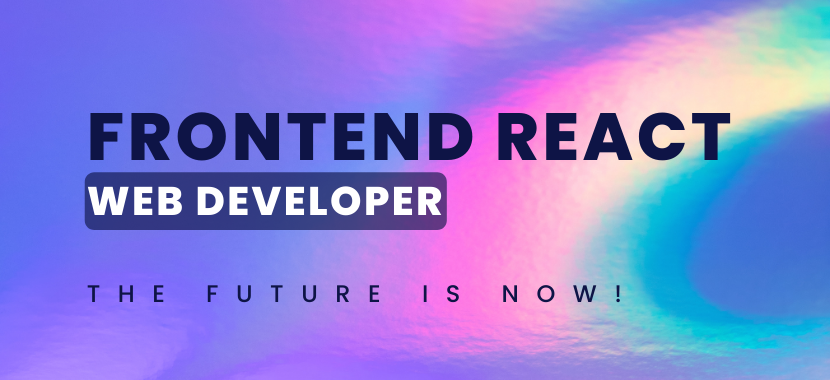
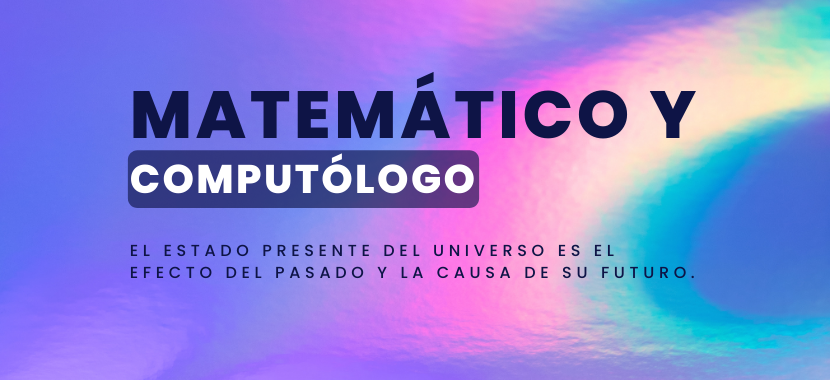
Actualización de texto y foto

Changed region(s): [[0.0904, 0.1737, 0.9036, 0.6079], [0.0904, 0.6368, 0.8434, 0.8105]]

diff --git a/README.md b/README.md
@@ -1,5 +1,9 @@
 ![](banner-github.png)
 
-### ¡Hola! Soy Luis Alberto, conocido actualmente en este mundillo Tech como luisDur 😊
+### ¡Hola! Soy un <span style="color: blue;">Dev</span> del Estado de México. 😊
 
 ---
+
+Matemático y Computólogo.
+
+Analítico │ Programador │ Desarrollador Web │ Analísta de Datos │ Líder de proyectos │ Educador y Divulgador │
